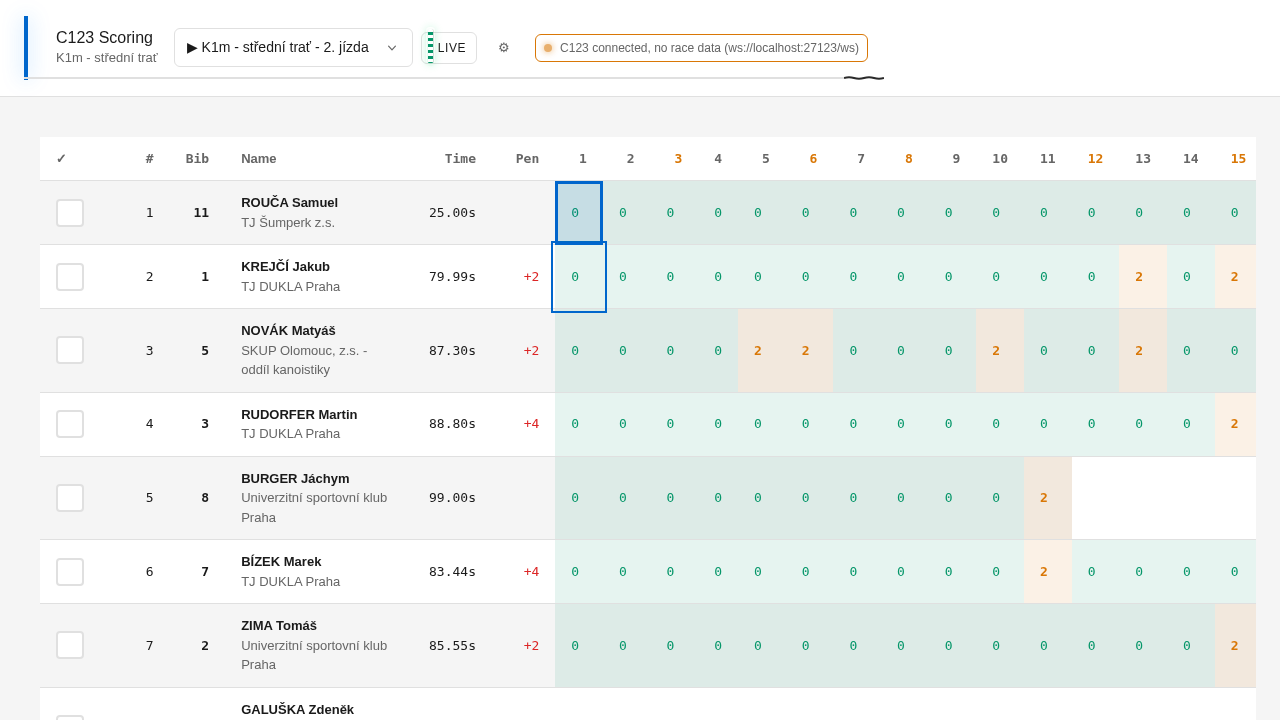
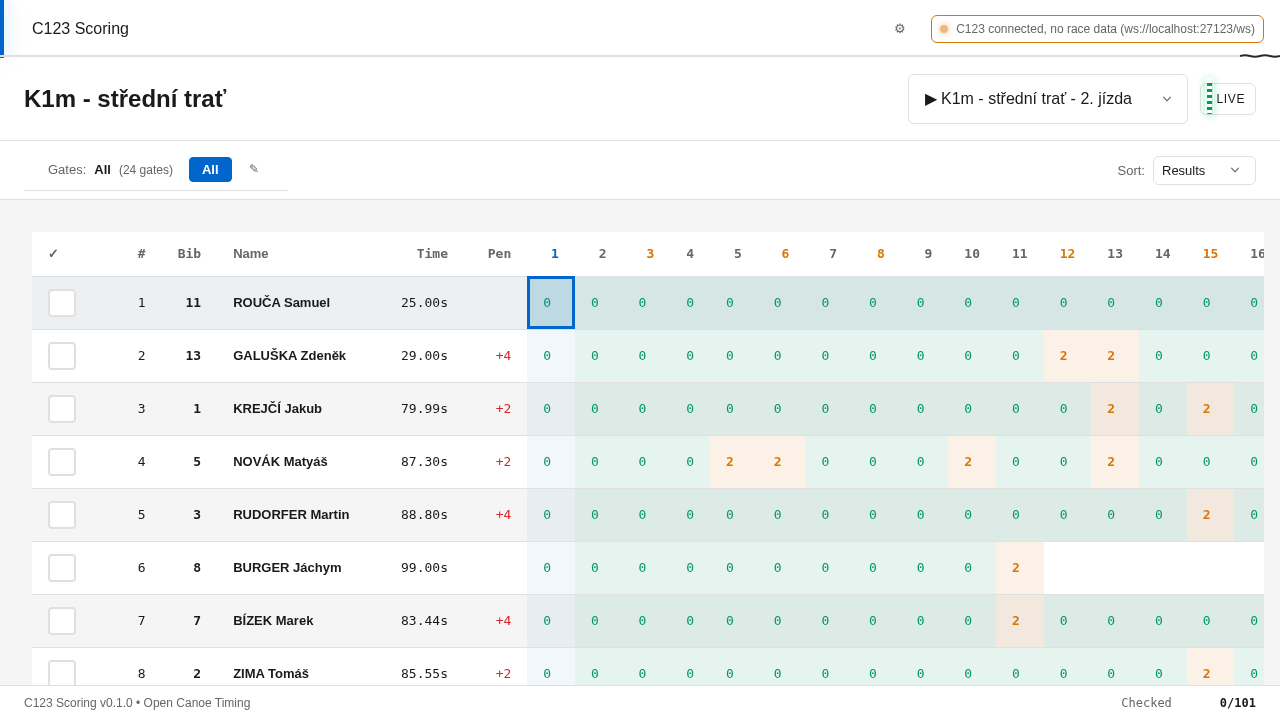
docs: update screenshots with new UI and add tablet views
- Refreshed all screenshots to reflect Phase 17 UI changes
- Added tablet landscape (1366x1024) and portrait (1024x1366) screenshots
- Removed mobile view screenshot (targeting tablets, not phones)
- Fixed screenshot test selector for new sort dropdown

diff --git a/tests/screenshots-with-data.spec.ts b/tests/screenshots-with-data.spec.ts
@@ -30,10 +30,10 @@ async function waitForDataAndSelectRace(page: Page) {
   await page.waitForTimeout(2000);
 
   // Try to select K1m 2. jízda (the race with Results data in replay)
-  const raceSelector = page.locator('select');
+  const raceSelector = page.getByLabel('Select race');
   if (await raceSelector.isVisible()) {
     // Find K1m 2. jízda option specifically
-    const k1m2Option = page.locator('select option:has-text("K1m"):has-text("2. jízda")').first();
+    const k1m2Option = page.locator('select[aria-label="Select race"] option:has-text("K1m"):has-text("2. jízda")').first();
     if (await k1m2Option.count() > 0) {
       const value = await k1m2Option.getAttribute('value');
       if (value) {
@@ -132,10 +132,20 @@ test.describe('Screenshot Tests - With Data', () => {
     await takeDocScreenshot(page, '14-check-progress');
   });
 
-  test('15 - mobile view', async ({ page }) => {
-    await page.setViewportSize({ width: 390, height: 844 });
+  // Mobile view removed - targeting tablets, not phones
+
+  test('18 - tablet landscape', async ({ page }) => {
+    // iPad Pro 12.9" landscape
+    await page.setViewportSize({ width: 1366, height: 1024 });
     await waitForDataAndSelectRace(page);
-    await takeDocScreenshot(page, '15-mobile-view');
+    await takeDocScreenshot(page, '18-tablet-landscape');
+  });
+
+  test('19 - tablet portrait', async ({ page }) => {
+    // iPad Pro 12.9" portrait
+    await page.setViewportSize({ width: 1024, height: 1366 });
+    await waitForDataAndSelectRace(page);
+    await takeDocScreenshot(page, '19-tablet-portrait');
   });
 
   test('17 - dark mode', async ({ page }) => {
